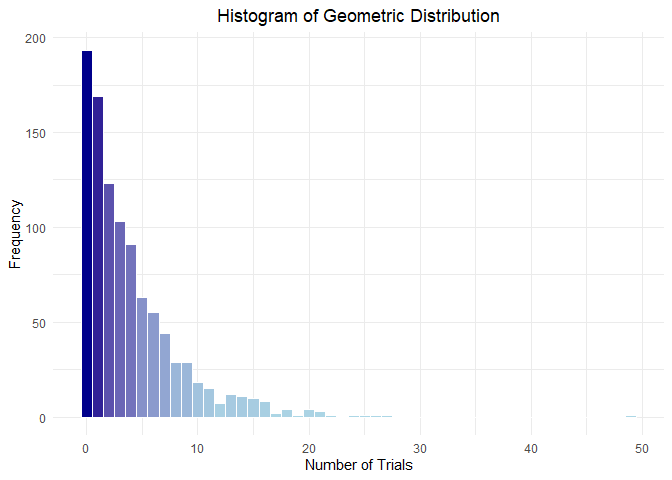
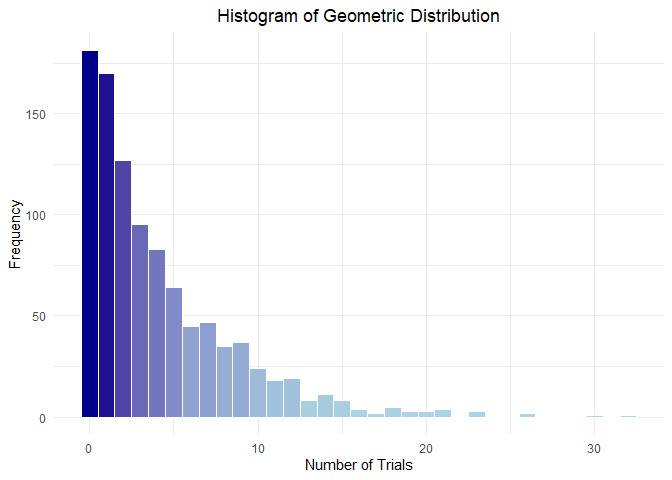
here here

diff --git a/FA6-Lansangan/LANSANGAN_ROMAND-L-FA6.md b/FA6-Lansangan/LANSANGAN_ROMAND-L-FA6.md
@@ -1,4 +1,4 @@
-LANSANGAN_ROMAND-L-FA6
+Formative Assessment 6
 ================
 
 #### Probability and Probability Distribution
@@ -23,7 +23,51 @@ p <- 0.2
 ``` r
 random_count <- 1000
 random_var <- rgeom(random_count, p)
+random_var
 ```
+
+    ##    [1]  3  0  2  1  5  1  1  1  0  0  3  1  1  0  2  0  1  5  2  0 12  0  1  2
+    ##   [25]  3  6  1  0  0  3  2  8  3  4  3  6  0 10 14  0  9  4 11  0  1  4  6  2
+    ##   [49]  0  2  0  2  1  2  3  2  1  7 23  0  0 19  2  0  0  1  1  6  8 13  9  2
+    ##   [73]  4  0  1 15  0  5  6  7  0  8  1 14  4  3  2  0  5  0  2  0  0  1  4  0
+    ##   [97]  4  3  3 14  3  3  1 10  3  0  7  5  5  0  0  1  0  8  0  0  7  5  1  5
+    ##  [121]  7  8  3  2  0  9  0  2  2  0  2 18  1  4  8  5  0  6  2  5 10  6  3  1
+    ##  [145]  1  1  6  8  3  2  0 12  6  0  2  0  9  4  5  9  5  0  4 10  4 16  2  1
+    ##  [169]  0 12  3  4  1  0  0  0 10  0  2  1  1  0  5  6  7  4  1  4  1 18 10  0
+    ##  [193]  0  9  3  5  0  4  2  1  9  2  3  4  5  2  3  2  0  0 10  5  4  0  3  4
+    ##  [217]  0  7  6  2 11 11  5  1  0 12  3  4  1  4  4 13  2  0  2  3  0 12  9 10
+    ##  [241]  0  1  4 11  2  1  1  1  9  1  3  2  3  3  1  6  5 14  3  0  2  0  4 23
+    ##  [265]  4  3  9  0 14  4  0  6 15  1  5  1  9  1  3  2  3  0  0  3  5 32  2 15
+    ##  [289]  0  2  1  1  7  0  2  4  1 11 16  5  1 26  4  6  5  5  1  2  0  0  4  9
+    ##  [313]  0 17  4  6  1  3  4  0  7  2 11  2  0  7  6  5  2  8  2  1  0  3  2  5
+    ##  [337]  3 10  2  4 11  7  2  0  3  2  9  4  6  0  2  3  0  6  5  0  5  9  9  2
+    ##  [361]  1  1  1  0  2  5  1  0  6  8  1  3  0  1  1 13  4  1  3  7  8  1  9  9
+    ##  [385]  1  5  1 10  1  0  1  3  5  2  6  5  8  7  0  0  3  8 12  1  4 17  9  1
+    ##  [409] 18  8  6  6  0  2  1  5  2  5  0  2  0  8  1 11  9  4  5  4 13  3  9 15
+    ##  [433]  3  9  0  1  3  3  3  2  0  0  8  0  2  7  1  1 10  1  1  2  1  2  0 10
+    ##  [457]  1 12  0  3  5  0  8  1  0  1  0  0  3  1  0  5  8  0  5  1  7  4  1  2
+    ##  [481]  6  1  4 21  2  4  2  2  5  6  3  2  1  0  0  0  1  7  0  2  0  0  1  4
+    ##  [505]  1  6  1  2  1 13  1 14  0  6  7  8  2  1  2  0  9  0  1  1  0  5  5 10
+    ##  [529]  4  0  4  0  0  2  4 15 16  3  1  2  0  3  1  4  1  1  1  7  3  8  7  3
+    ##  [553]  1  1  1 19  9  4 12  4  0  1  0  0  5  2  4  3  0  1 11  3  8  6 11  1
+    ##  [577] 15  4  7  3  6  2  0  9  0  1  1  8 10  0  0  0  6  2  0  4  1  0  3  4
+    ##  [601]  7  2  4  1  2  4  1  1  0  1  1  2  1  0  0  2  1  4  1  7 12  8  0  6
+    ##  [625]  9  0  0  4  0  3 12  1  2  2  1  4  0  1  3  3  0  2  2  7 14  5  1  0
+    ##  [649] 10  4  3  4  7  3  2  2  4  0  2  1 21  2  6  2  0  2 13  7  5  4  2  0
+    ##  [673] 10  5  1  1 12  2  1  2  9  2  1  0  3 18  1  2  2  2  2 20  0  3  1  0
+    ##  [697]  7  4  4  0 10 10  2  3 20  6  0  7  5  2 10  0  4  1  0  2  4  2  2 11
+    ##  [721]  6 11 12  2  1  3 21  8  1  2 12  9  4  4  4  2  2  0  2  2  9  7  5  0
+    ##  [745]  0  5  1  7  9  1  4  8  3  3  0  2  2  8  8  0  1  4  5  0  0  1  6  7
+    ##  [769]  3  6  1  3  1  1  8 19 23  0 12 12  2 11  9  3 12  5  3  3  3  4  0  2
+    ##  [793]  2  7  5  4 14  1  2  4 13  6  6  9  6  2  3  1  0  4 11  6  3  6  9  1
+    ##  [817]  2 12  5 15  1  0  5  0  0  0  2  1  1  4  3  3  1  1  1  0  2  1  0  4
+    ##  [841]  3  5  9  2  3  2 10  7  6  3  0  0  3  4  6  3  1  7  1  5  9  0  3  1
+    ##  [865]  0  0  7  3  1  4  1  8  8  5  8  5 10  7  3  0  1  1  5  8  3 11  2  6
+    ##  [889]  7 30 14  0  0  3  7  0  2  6  5  3  2  2  6  2  5  1  1  1  1 14  2  4
+    ##  [913]  4 16  4  0  7  3  3 10  1  1 10  0  5  5  3  4  8  1  7  5  0  3  4 10
+    ##  [937] 18  1  4  9  0  5  0  2 13  2  1  1  7  8 15  0  1  1  7  0  7  7  0  5
+    ##  [961]  1  0  0  0 11  0  1  3 21  7  2  0  9  1 26  2  1 14  2  7  3  3  1  1
+    ##  [985] 20  8  4 12  0  8  1 12  0 11 11  1  9  7  1  7
 
 #### c.Calculate some basic statistics:
 
@@ -38,16 +82,16 @@ sd_var <- sd(random_var)
 #### d. Print the results in item 3 with the following output (string):
 
 ``` r
-results <- list(paste('Number of trials required to achieve first success: ', random_count),
+results <- list(paste('Number of trials required to achieve first success: ', random_var[1]),
 paste('Mean (in 2 decimal places): ', mean_var),
 paste('Variance (in 2 decimal places): ', var_var), paste('Sandard deviation ( in 2 decimal places): ', sd_var))
 for(i in results){print(i)}
 ```
 
-    ## [1] "Number of trials required to achieve first success:  1000"
-    ## [1] "Mean (in 2 decimal places):  3.992"
-    ## [1] "Variance (in 2 decimal places):  20.7987347347347"
-    ## [1] "Sandard deviation ( in 2 decimal places):  4.56056298440606"
+    ## [1] "Number of trials required to achieve first success:  3"
+    ## [1] "Mean (in 2 decimal places):  4.189"
+    ## [1] "Variance (in 2 decimal places):  20.8481271271271"
+    ## [1] "Sandard deviation ( in 2 decimal places):  4.56597493719875"
 
 #### e. Plot the histogram of the results.
 
@@ -67,7 +111,11 @@ ggplot(df, aes(x = Trials, fill = after_stat(count))) +
 
 ![](LANSANGAN_ROMAND-L-FA6_files/figure-gfm/unnamed-chunk-5-1.png)<!-- -->
 
-As was shown in the histograph,
+The probability of achieving the desired result in a geometric
+distribution increases as the number of failures in an experiment
+increases. Thus the result of the histogram that indicates the frequency
+(among 1000 random experiments) of achieving the desired result
+decreases as the number of trials increases.
 
 ### 2) Hypergeometric Distribution
 
